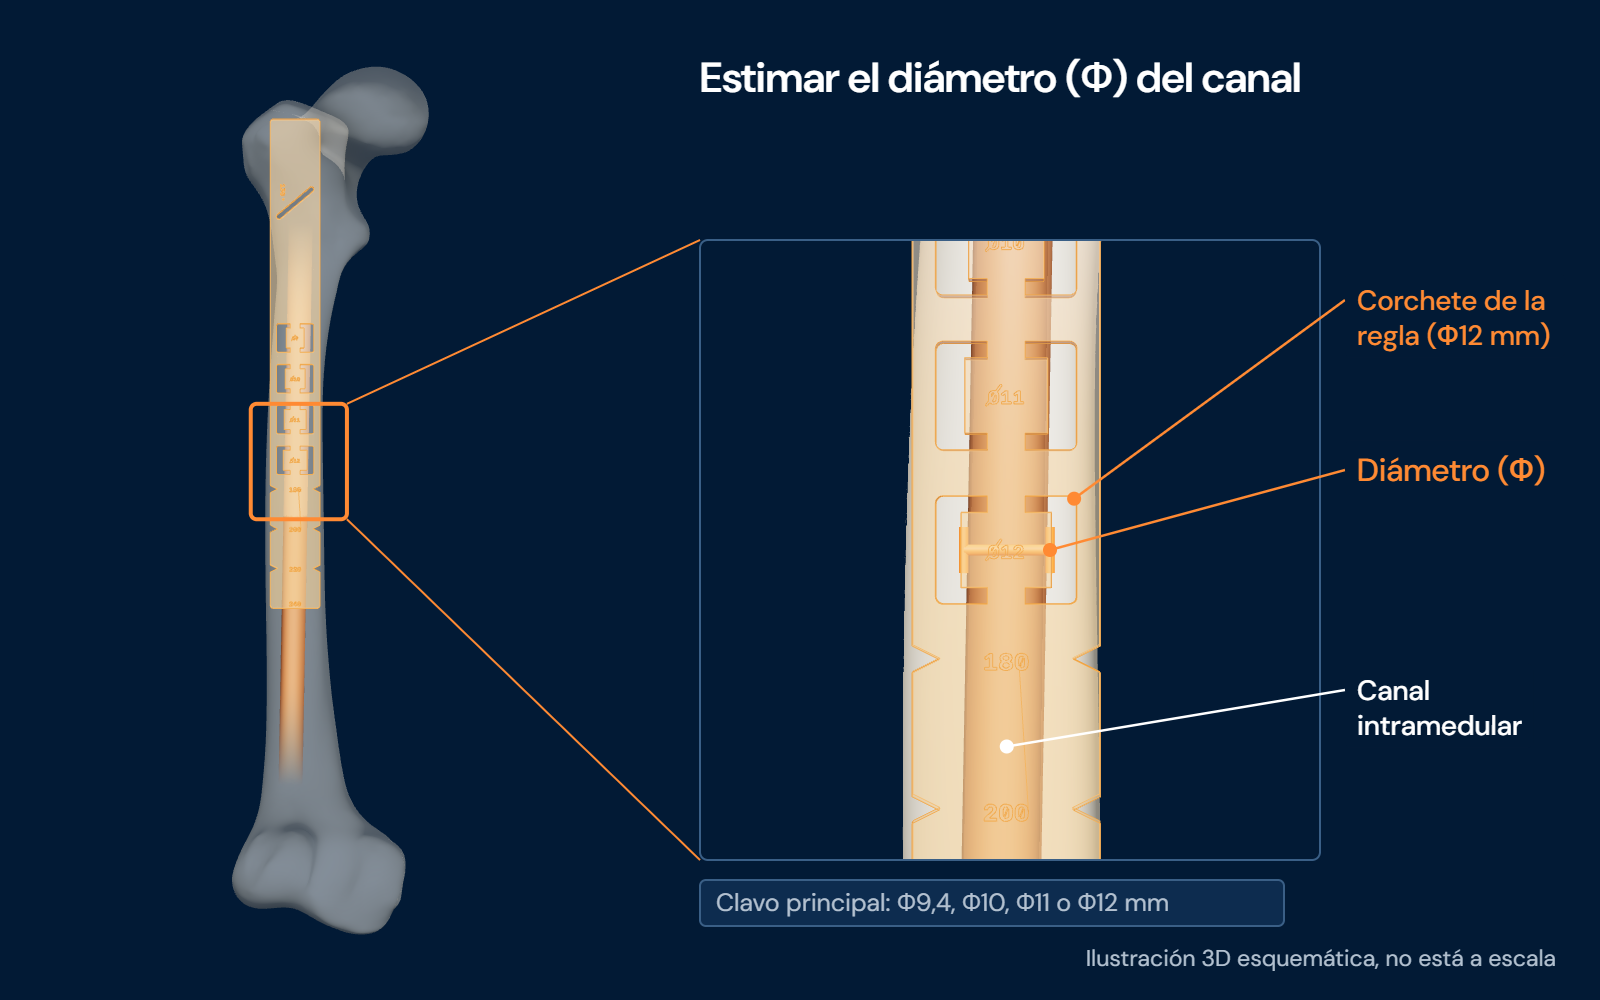
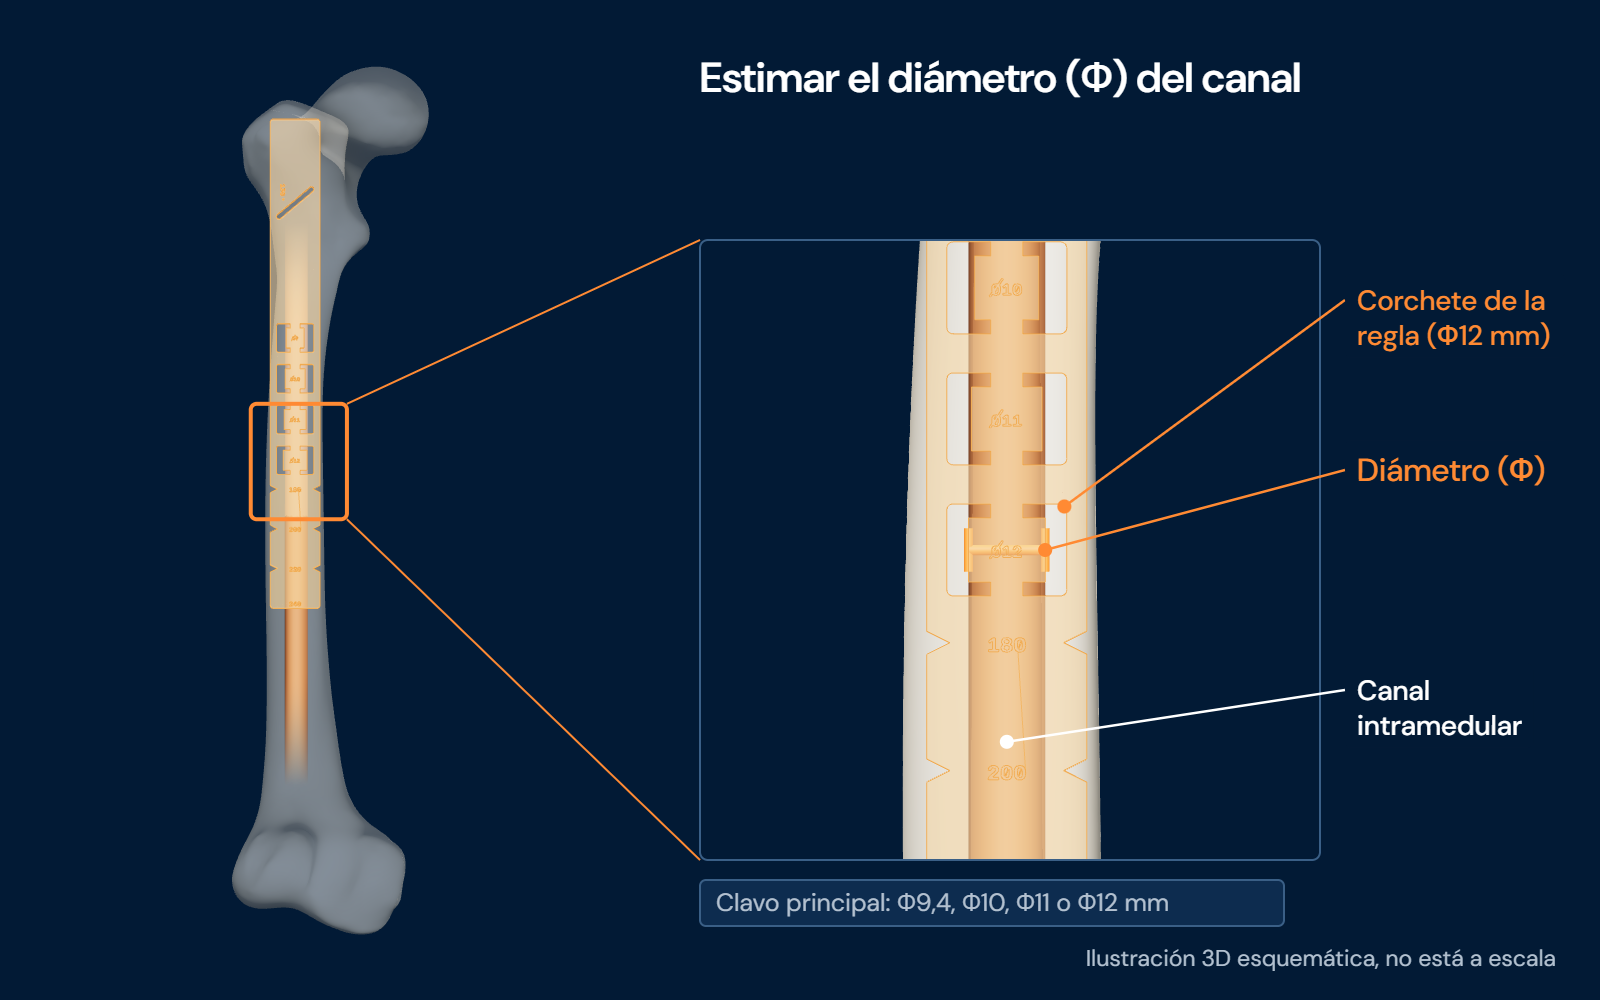
Imagen 2.3: el canal de 12 mm coincide con el corchete de la regla

Changed region(s): [[0.5625, 0.217, 0.75, 0.868], [0.1562, 0.62, 0.2188, 0.775], [0.75, 0.682, 0.8125, 0.713]]

diff --git a/web/ilustraciones3d/escenas.js b/web/ilustraciones3d/escenas.js
@@ -487,7 +487,9 @@ function canal() {
 
 // Canal intramedular esquemático: un tubo recto siguiendo el eje del canal del modelo, de diámetro parejo,
 // cuyas puntas se desvanecen (no se ve dónde empieza ni dónde termina).
-function straightCanal({ radius = 0.0063, through = [-0.00045, 0.02], clippingPlanes } = {}) {
+// Por defecto el canal mide 12 mm y va paralelo a la regla (vertical), centrado en su corchete de Φ12 mm
+// (la regla se ubica en x = -0,5 mm): así sus dos paredes coinciden con los bordes del corchete.
+function straightCanal({ radius = 0.006, through = [-0.0005, 0.02], parallel = true, clippingPlanes } = {}) {
   const pos = canalGeometry.attributes.position;
   const bins = new Map();
   for (let i = 0; i < pos.count; i += 1) {
@@ -508,7 +510,8 @@ function straightCanal({ radius = 0.0063, through = [-0.00045, 0.02], clippingPl
   const fx = fit(0);
   const fz = fit(2);
   const [tx, ty] = through;
-  const at = (y) => new THREE.Vector3(tx + fx.slope * (y - ty), y, fz.m + fz.slope * (y - my));
+  const sx = parallel ? 0 : fx.slope;
+  const at = (y) => new THREE.Vector3(tx + sx * (y - ty), y, fz.m + fz.slope * (y - my));
   const bottom = at(centers[0][1]);
   const top = at(centers[n - 1][1]);
   const length = top.distanceTo(bottom);
@@ -942,12 +945,16 @@ const ESCENAS = {
     const plantillaB = radiographicTemplate({ opacity: 0.35 });
     plantillaB.position.set(-0.0005, level - TEMPLATE.bracket12Y, 0.03);
     scene2.add(plantillaB);
-    const leftWall = -0.0068;
-    const rightWall = 0.0059;
+    // Paredes del canal = bordes del corchete de Φ12 mm (regla en x = -0,5 mm, corchete de ±6 mm).
+    const leftWall = -0.0065;
+    const rightWall = 0.0055;
     scene2.add(tube([[leftWall, level, 0.012], [rightWall, level, 0.012]], 0.0008, M.orange));
     for (const x of [leftWall, rightWall]) scene2.add(tube([[x, level - 0.0034, 0.012], [x, level + 0.0034, 0.012]], 0.0007, M.orange));
     const zoom = { x: 700, y: 240, w: 620, h: 620 };
-    const close = new THREE.PerspectiveCamera(26, 1, 0.01, 5);
+    // Vista de frente sin perspectiva: la regla queda delante del canal y, con perspectiva, el canal se vería
+    // más angosto que el corchete aunque midan lo mismo. Así las paredes coinciden con el corchete.
+    const half = 0.21 * Math.tan(THREE.MathUtils.degToRad(13));
+    const close = new THREE.OrthographicCamera(-half, half, half, -half, 0.01, 5);
     close.position.set(0, level, 0.21);
     close.lookAt(0, level, 0);
     close.updateMatrixWorld();
